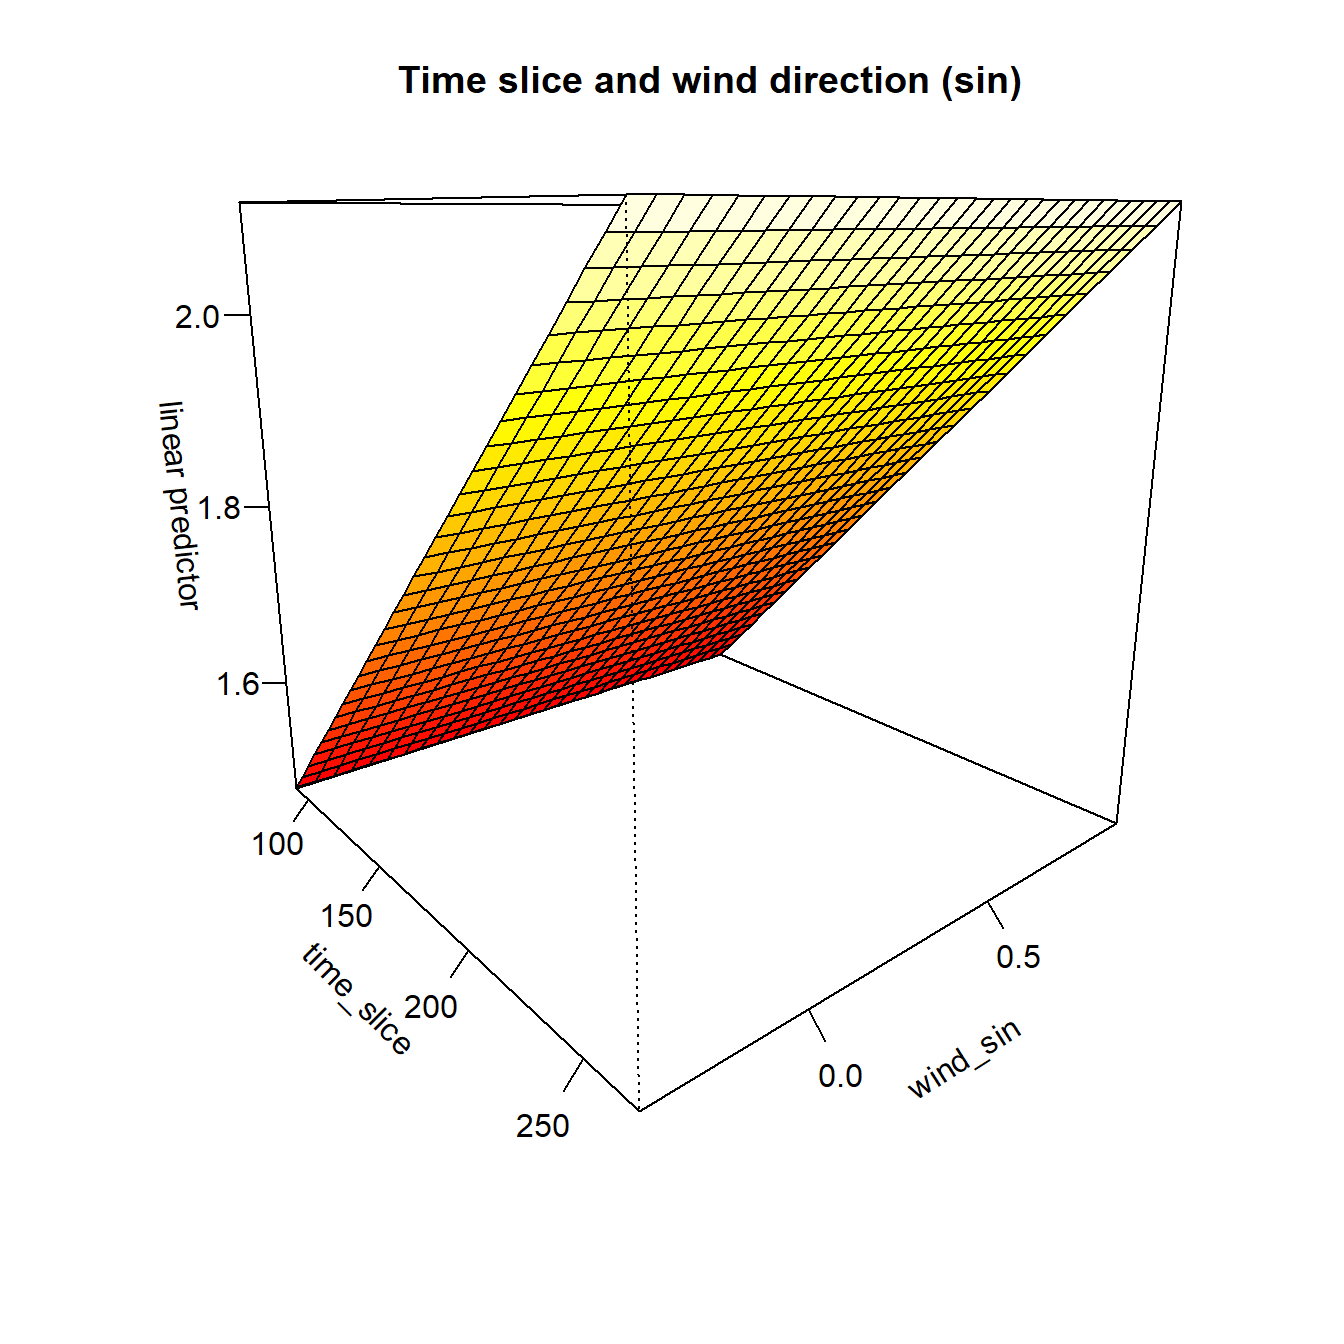
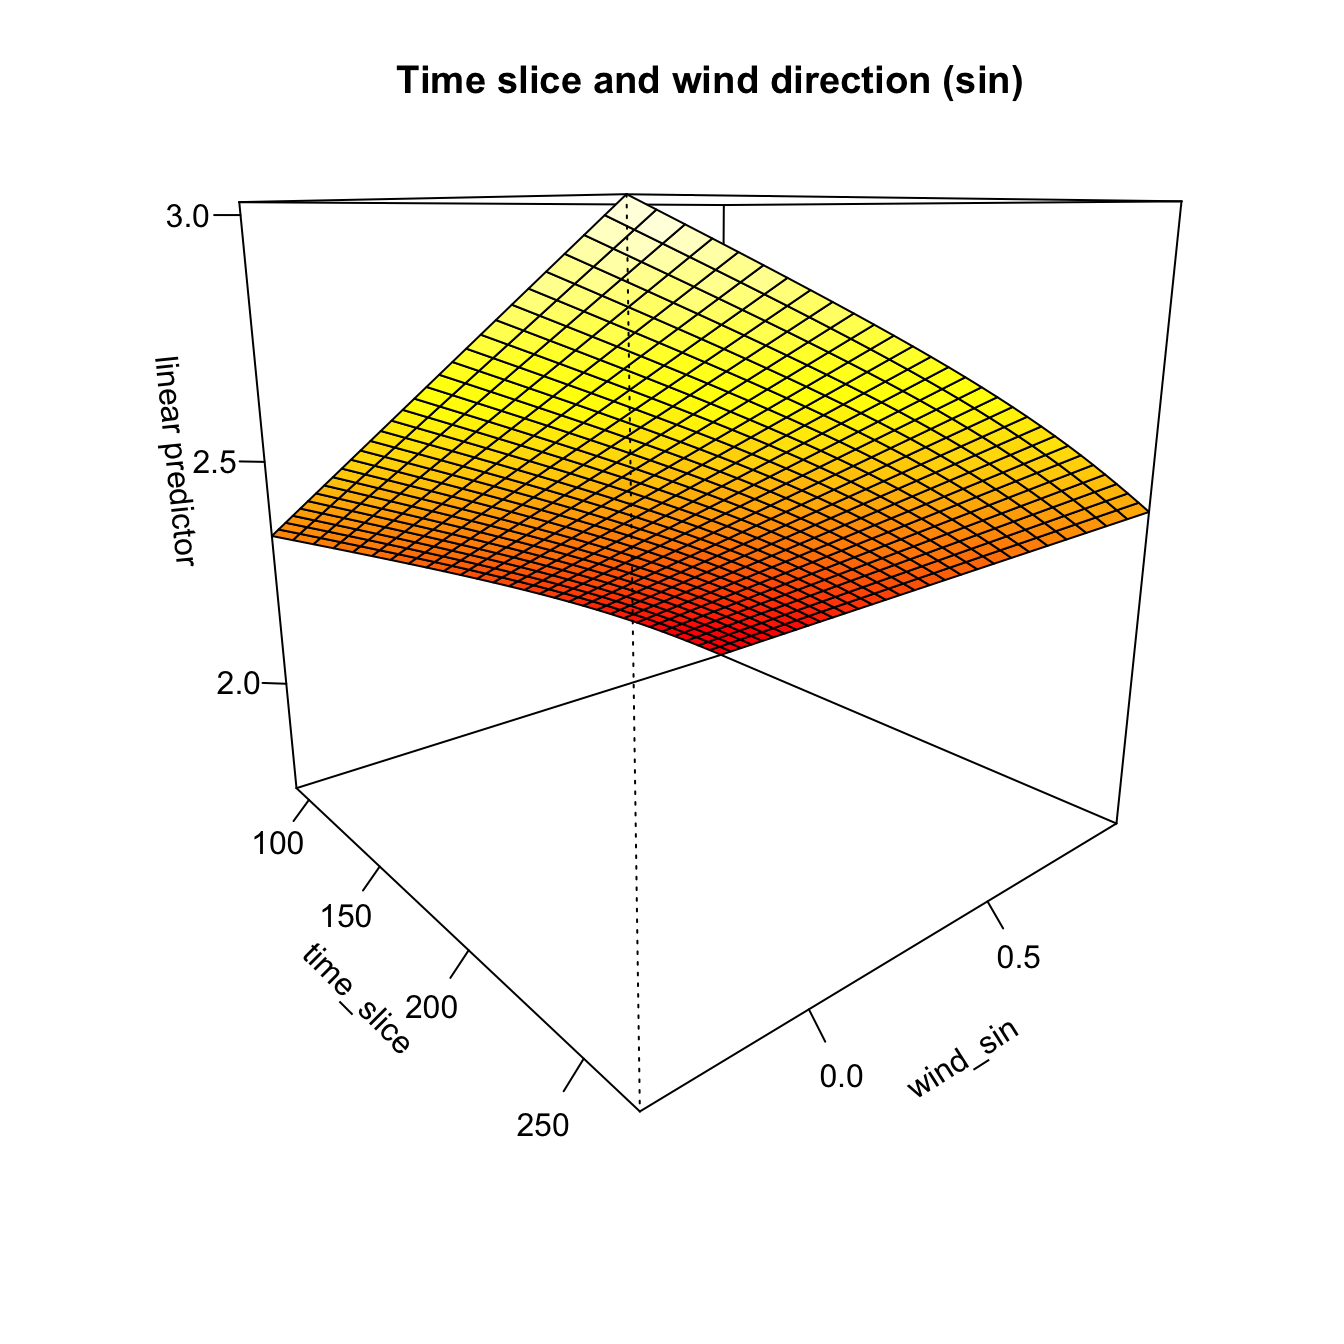
Update mod_dat object

diff --git a/gam_model.html b/gam_model.html
@@ -442,7 +442,7 @@ recorded in spore type proportion at 100 m to 400 m downwind (P =
          distance_m,
          n_spore) %&gt;%
   print(n = Inf)</code></pre>
-<pre><code>## # A tibble: 24 x 8
+<pre><code>## # A tibble: 24 × 8
 ## # Groups:   field [6]
 ##    field trap_coord trap_degrees degree_dif wind_degrees wind_speed distance_m
 ##    &lt;fct&gt; &lt;chr&gt;             &lt;dbl&gt;      &lt;dbl&gt;        &lt;dbl&gt;      &lt;dbl&gt;      &lt;dbl&gt;
@@ -470,7 +470,7 @@ recorded in spore type proportion at 100 m to 400 m downwind (P =
 ## 22 6     E                    90     87.8           2.16       7.57        100
 ## 23 6     W                   270    268.            2.16       7.57        100
 ## 24 6     S                   180    178.            2.16       7.57        100
-## # i 1 more variable: n_spore &lt;dbl&gt;</code></pre>
+## # ℹ 1 more variable: n_spore &lt;dbl&gt;</code></pre>
 <p>Based on the use of AIC to evaluate model fit to the data, the
 following GAM best fit the data with the smoothed time slice variables,
 s(<code>time_slice</code>); a smoothed term for the direction from which
@@ -488,9 +488,9 @@ mod_dat$wind_sin &lt;- sin(2 * pi * mod_dat$wind_degrees / 360)
 
 m1 &lt;-
   gam(
-    n_spore ~ s(time_slice, k = 3) + 
-      s(wind_sin, k = 11) +
-      s(distance_m, wind_speed, k = 18) +
+    n_spore ~ s(time_slice, k = 3) +
+      s(wind_sin, wind_speed, k = 4) +
+      s(distance_m, k = 4) +
       s(field, xy, bs = &quot;re&quot;),
     data = mod_dat,
     select = TRUE,
@@ -500,19 +500,32 @@ m1 &lt;-
 </div>
 <div id="inspect-model-m1" class="section level3">
 <h3>Inspect Model m1</h3>
-<pre class="r"><code>m1</code></pre>
+<pre class="r"><code>summary(m1)</code></pre>
 <pre><code>## 
-## Family: Negative Binomial(2.259) 
+## Family: Negative Binomial(2.278) 
 ## Link function: log 
 ## 
 ## Formula:
-## n_spore ~ s(time_slice, k = 3) + s(wind_sin, k = 11) + s(distance_m, 
-##     wind_speed, k = 18) + s(field, xy, bs = &quot;re&quot;)
+## n_spore ~ s(time_slice, k = 3) + s(wind_sin, wind_speed, k = 4) + 
+##     s(distance_m, k = 4) + s(field, xy, bs = &quot;re&quot;)
 ## 
-## Estimated degrees of freedom:
-##  0.9876  0.0008  1.6372 89.6904  total = 93.32 
+## Parametric coefficients:
+##             Estimate Std. Error z value  Pr(&gt;|z|)    
+## (Intercept)   0.7957     0.1857   4.285 0.0000183 ***
+## ---
+## Signif. codes:  0 &#39;***&#39; 0.001 &#39;**&#39; 0.01 &#39;*&#39; 0.05 &#39;.&#39; 0.1 &#39; &#39; 1
 ## 
-## REML score: 2644.74</code></pre>
+## Approximate significance of smooth terms:
+##                            edf Ref.df Chi.sq             p-value    
+## s(time_slice)           0.9883      2    115 &lt;0.0000000000000002 ***
+## s(wind_sin,wind_speed)  2.0443      3   9321              0.0260 *  
+## s(distance_m)           0.8070      3   7773              0.0272 *  
+## s(field,xy)            88.9851     95   2785 &lt;0.0000000000000002 ***
+## ---
+## Signif. codes:  0 &#39;***&#39; 0.001 &#39;**&#39; 0.01 &#39;*&#39; 0.05 &#39;.&#39; 0.1 &#39; &#39; 1
+## 
+## R-sq.(adj) =  0.713   Deviance explained = 82.4%
+## -REML = 2644.1  Scale est. = 1         n = 1152</code></pre>
 <div id="check-model-m1" class="section level4">
 <h4>Check model m1</h4>
 <pre class="r"><code>gam.check(m1)</code></pre>
@@ -520,47 +533,47 @@ m1 &lt;-
 <pre><code>## 
 ## Method: REML   Optimizer: outer newton
 ## full convergence after 12 iterations.
-## Gradient range [-0.0009535446,0.0009236352]
-## (score 2644.74 &amp; scale 1).
-## eigenvalue range [-8.850242e-05,159.5439].
-## Model rank =  222 / 222 
+## Gradient range [-0.0005582554,0.0005252253]
+## (score 2644.133 &amp; scale 1).
+## Hessian positive definite, eigenvalue range [0.00002133794,157.2639].
+## Model rank =  201 / 201 
 ## 
 ## Basis dimension (k) checking results. Low p-value (k-index&lt;1) may
 ## indicate that k is too low, especially if edf is close to k&#39;.
 ## 
-##                                k&#39;      edf k-index p-value    
-## s(time_slice)            2.00e+00 9.88e-01    0.80  &lt;2e-16 ***
-## s(wind_sin)              1.00e+01 7.80e-04    0.80  &lt;2e-16 ***
-## s(distance_m,wind_speed) 1.70e+01 1.64e+00    0.93     0.6    
-## s(field,xy)              1.92e+02 8.97e+01      NA      NA    
+##                             k&#39;     edf k-index             p-value    
+## s(time_slice)            2.000   0.988    0.80 &lt;0.0000000000000002 ***
+## s(wind_sin,wind_speed)   3.000   2.044    0.87                0.01 ** 
+## s(distance_m)            3.000   0.807    0.80 &lt;0.0000000000000002 ***
+## s(field,xy)            192.000  88.985      NA                  NA    
 ## ---
 ## Signif. codes:  0 &#39;***&#39; 0.001 &#39;**&#39; 0.01 &#39;*&#39; 0.05 &#39;.&#39; 0.1 &#39; &#39; 1</code></pre>
 <pre class="r"><code>summary(m1)</code></pre>
 <pre><code>## 
-## Family: Negative Binomial(2.259) 
+## Family: Negative Binomial(2.278) 
 ## Link function: log 
 ## 
 ## Formula:
-## n_spore ~ s(time_slice, k = 3) + s(wind_sin, k = 11) + s(distance_m, 
-##     wind_speed, k = 18) + s(field, xy, bs = &quot;re&quot;)
+## n_spore ~ s(time_slice, k = 3) + s(wind_sin, wind_speed, k = 4) + 
+##     s(distance_m, k = 4) + s(field, xy, bs = &quot;re&quot;)
 ## 
 ## Parametric coefficients:
-##             Estimate Std. Error z value Pr(&gt;|z|)    
-## (Intercept)   0.7964     0.1876   4.245 2.19e-05 ***
+##             Estimate Std. Error z value  Pr(&gt;|z|)    
+## (Intercept)   0.7957     0.1857   4.285 0.0000183 ***
 ## ---
 ## Signif. codes:  0 &#39;***&#39; 0.001 &#39;**&#39; 0.01 &#39;*&#39; 0.05 &#39;.&#39; 0.1 &#39; &#39; 1
 ## 
 ## Approximate significance of smooth terms:
-##                                edf Ref.df    Chi.sq p-value    
-## s(time_slice)            9.876e-01      2    98.607  &lt;2e-16 ***
-## s(wind_sin)              7.801e-04     10     0.001  0.2991    
-## s(distance_m,wind_speed) 1.637e+00     17 11787.236  0.0086 ** 
-## s(field,xy)              8.969e+01     95  2799.288  &lt;2e-16 ***
+##                            edf Ref.df Chi.sq             p-value    
+## s(time_slice)           0.9883      2    115 &lt;0.0000000000000002 ***
+## s(wind_sin,wind_speed)  2.0443      3   9321              0.0260 *  
+## s(distance_m)           0.8070      3   7773              0.0272 *  
+## s(field,xy)            88.9851     95   2785 &lt;0.0000000000000002 ***
 ## ---
 ## Signif. codes:  0 &#39;***&#39; 0.001 &#39;**&#39; 0.01 &#39;*&#39; 0.05 &#39;.&#39; 0.1 &#39; &#39; 1
 ## 
-## R-sq.(adj) =  0.706   Deviance explained = 82.4%
-## -REML = 2644.7  Scale est. = 1         n = 1152</code></pre>
+## R-sq.(adj) =  0.713   Deviance explained = 82.4%
+## -REML = 2644.1  Scale est. = 1         n = 1152</code></pre>
 <pre class="r"><code>vis.gam(m1,
         theta = 50,
         ticktype = &quot;detailed&quot;,
@@ -569,9 +582,9 @@ m1 &lt;-
 <pre class="r"><code>vis.gam(
   m1,
   theta = 50,
-  view = c(&quot;wind_sin&quot;, &quot;distance_m&quot;),
+  view = c(&quot;wind_speed&quot;, &quot;distance_m&quot;),
   ticktype = &quot;detailed&quot;,
-  main = &quot;Wind direction (sin) and distance from field&quot;
+  main = &quot;Wind speed and distance from field&quot;
 )</code></pre>
 <p><img src="gam_model_files/figure-html/gam-check-m1-3.png" width="60%" /></p>
 <pre class="r"><code>vis.gam(
@@ -590,15 +603,11 @@ simulateResiduals(m1, plot = TRUE)</code></pre>
 <p><img src="gam_model_files/figure-html/gam-check-m1-6.png" width="60%" /></p>
 <pre><code>## Object of Class DHARMa with simulated residuals based on 250 simulations with refit = FALSE . See ?DHARMa::simulateResiduals for help. 
 ##  
-## Scaled residual values: 0.9569192 0.2507656 0.5419476 0.2639389 0.01065575 0.4019814 0.3236341 0.768047 0.9418745 0.1221668 0.09916018 0.4530349 0.9667544 0.6847924 0.05671697 0.4134417 0.9083605 0.7967599 0.250994 0.2234824 ...</code></pre>
+## Scaled residual values: 0.9478558 0.1008687 0.2937727 0.02902867 0.2239502 0.3083385 0.1849711 0.8611311 0.9322538 0.2729639 0.3428258 0.187237 0.9092924 0.4388126 0.004825833 0.4403811 0.8522732 0.5695954 0.1756688 0.2884369 ...</code></pre>
 <p>The model fully converged after 21 iterations. All of the predictive
 factors included were significant at <em>P</em> &gt; 0.05.</p>
-<p>Presumably due to the large number of outliers in the original data
-set, the residual plots show some patterns and the QQ-plot for the
-random effects indicate some issues with extreme values. However, the
-<code>gam.check()</code> seems satisfactory and the adjusted R-squared
-value is 0.811. In all, this model looks to explain the spore dispersal
-data well enough for this data set.</p>
+<p>In all, this model looks to explain the spore dispersal data well
+enough for this data set.</p>
 </div>
 <div id="check-for-autocorrelation" class="section level4">
 <h4>Check for autocorrelation</h4>

diff --git a/data_import.html b/data_import.html
@@ -424,6 +424,21 @@ that has the cardinal directions in it for further analysis.</p>
   summarise(n_spore = sum(n_spore))
 
 spore_data</code></pre>
+<pre><code>## # A tibble: 288 × 5
+## # Groups:   field, trap_coord, distance_m [96]
+##    field trap_coord distance_m time_min n_spore
+##    &lt;fct&gt; &lt;fct&gt;           &lt;dbl&gt;    &lt;dbl&gt;   &lt;dbl&gt;
+##  1 1     N                 100       90       2
+##  2 1     N                 100      180       4
+##  3 1     N                 100      270       3
+##  4 1     N                 200       90       2
+##  5 1     N                 200      180       3
+##  6 1     N                 200      270      14
+##  7 1     N                 300       90       1
+##  8 1     N                 300      180       0
+##  9 1     N                 300      270       0
+## 10 1     N                 400       90       1
+## # ℹ 278 more rows</code></pre>
 </div>
 <div id="weather-data" class="section level3">
 <h3>Weather data</h3>
@@ -439,7 +454,7 @@ meteo_data &lt;-
   mutate(wind_speed = wind_speed * 0.2777778)
 
 meteo_data</code></pre>
-<pre><code>## # A tibble: 330 x 6
+<pre><code>## # A tibble: 330 × 6
 ##    field minute_lap rel_hum  temp wind_speed wind_dir
 ##    &lt;fct&gt;      &lt;dbl&gt;   &lt;dbl&gt; &lt;dbl&gt;      &lt;dbl&gt; &lt;chr&gt;   
 ##  1 1              0      65  16        1.72  E       
@@ -452,7 +467,7 @@ meteo_data</code></pre>
 ##  8 1             35      65  19.5      0.611 E       
 ##  9 1             40      65  19.5      1.17  E       
 ## 10 1             45      65  19.7      0.333 NE      
-## # i 320 more rows</code></pre>
+## # ℹ 320 more rows</code></pre>
 </div>
 <div id="data-prep-for-analysis" class="section level3">
 <h3>Data prep for analysis</h3>
@@ -514,7 +529,7 @@ degrees here.</p>
              TRUE ~ 270
            ))
 m</code></pre>
-<pre><code>## # A tibble: 330 x 8
+<pre><code>## # A tibble: 330 × 8
 ##    field minute_lap rel_hum  temp wind_speed wind_dir wind_degrees time_slice
 ##    &lt;fct&gt;      &lt;dbl&gt;   &lt;dbl&gt; &lt;dbl&gt;      &lt;dbl&gt; &lt;chr&gt;           &lt;dbl&gt;      &lt;dbl&gt;
 ##  1 1              0      65  16        1.72  E                  90         90
@@ -527,7 +542,7 @@ m</code></pre>
 ##  8 1             35      65  19.5      0.611 E                  90         90
 ##  9 1             40      65  19.5      1.17  E                  90         90
 ## 10 1             45      65  19.7      0.333 NE                 45         90
-## # i 320 more rows</code></pre>
+## # ℹ 320 more rows</code></pre>
 <pre class="r"><code>rh_90 &lt;-
   m %&gt;%
   filter(time_slice == 90) %&gt;%
